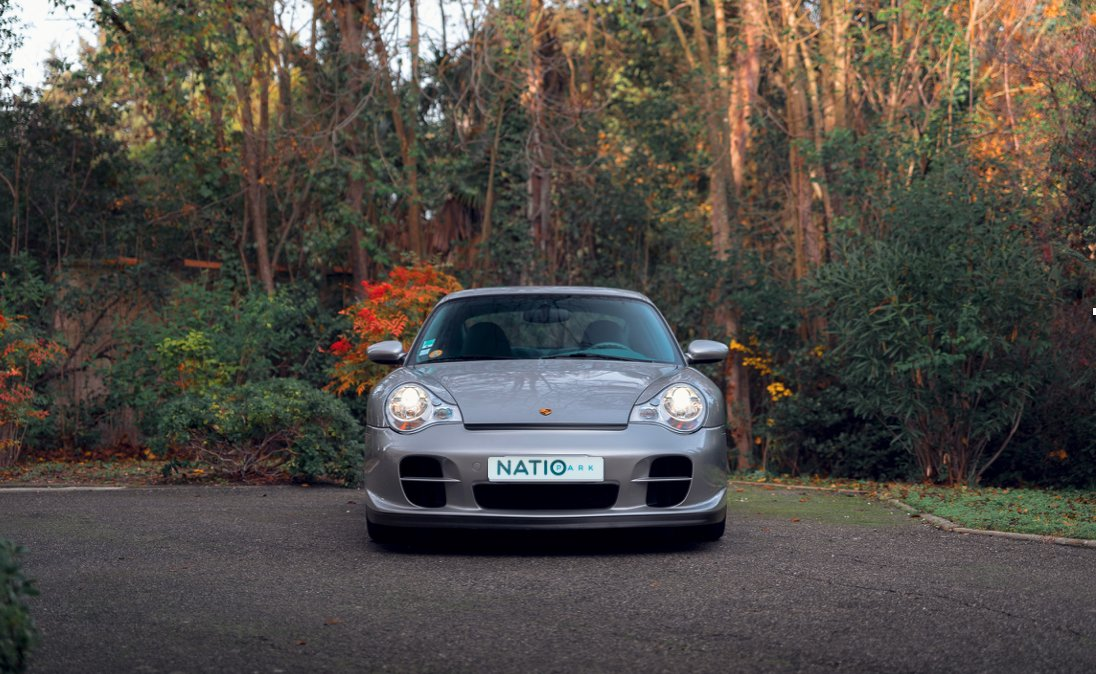
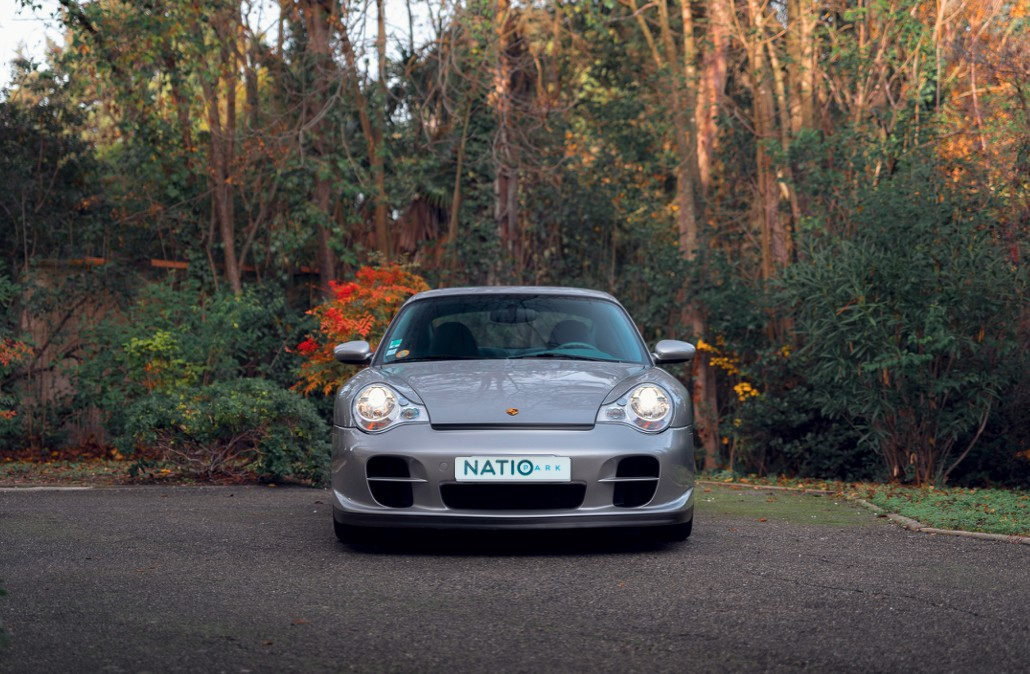
Véhicules: galerie toujours visible, photos finales nettoyées

diff --git a/src/components/VehicleGallery.tsx b/src/components/VehicleGallery.tsx
@@ -4,7 +4,6 @@ import Image from "next/image";
 import { useCallback, useEffect, useState } from "react";
 import { AnimatePresence, motion } from "framer-motion";
 import { vehicles } from "@/data/site";
-import { Reveal } from "./Reveal";
 
 export function VehicleGallery() {
   const [active, setActive] = useState<number | null>(null);
@@ -37,26 +36,25 @@ export function VehicleGallery() {
       {/* Layout A — Grille en paires: rear | front, 2 cols from sm */}
       <div className="mx-auto grid max-w-4xl gap-2 sm:grid-cols-2">
         {vehicles.map((v, i) => (
-            <Reveal key={v.src} delay={(i % 2) * 0.06} margin="0px" amount={0.15}>
-              <button
-                type="button"
-                onClick={() => setActive(i)}
-                className="group relative aspect-[4/3] w-full overflow-hidden rounded-sm focus-visible:outline focus-visible:outline-2 focus-visible:outline-offset-2 focus-visible:outline-accent"
-                aria-label={`Agrandir : ${v.alt}`}
-              >
-                <Image
-                  src={v.src}
-                  alt={v.alt}
-                  fill
-                  className="object-cover transition duration-700 group-hover:scale-105"
-                  sizes="(max-width: 640px) 100vw, 40vw"
-                />
-                <div className="absolute inset-0 bg-gradient-to-t from-black/55 via-transparent to-transparent opacity-70 transition group-hover:opacity-90" />
-                <span className="absolute bottom-3 right-3 text-[0.65rem] tracking-[0.2em] text-platinum/80 uppercase opacity-0 transition group-hover:opacity-100">
-                  Voir
-                </span>
-              </button>
-            </Reveal>
+          <button
+            key={v.src}
+            type="button"
+            onClick={() => setActive(i)}
+            className="group relative aspect-[4/3] w-full overflow-hidden rounded-sm focus-visible:outline focus-visible:outline-2 focus-visible:outline-offset-2 focus-visible:outline-accent"
+            aria-label={`Agrandir : ${v.alt}`}
+          >
+            <Image
+              src={v.src}
+              alt={v.alt}
+              fill
+              className="object-cover transition duration-700 group-hover:scale-105"
+              sizes="(max-width: 640px) 100vw, 40vw"
+            />
+            <div className="absolute inset-0 bg-gradient-to-t from-black/55 via-transparent to-transparent opacity-70 transition group-hover:opacity-90" />
+            <span className="absolute bottom-3 right-3 text-[0.65rem] tracking-[0.2em] text-platinum/80 uppercase opacity-0 transition group-hover:opacity-100">
+              Voir
+            </span>
+          </button>
         ))}
       </div>
 
